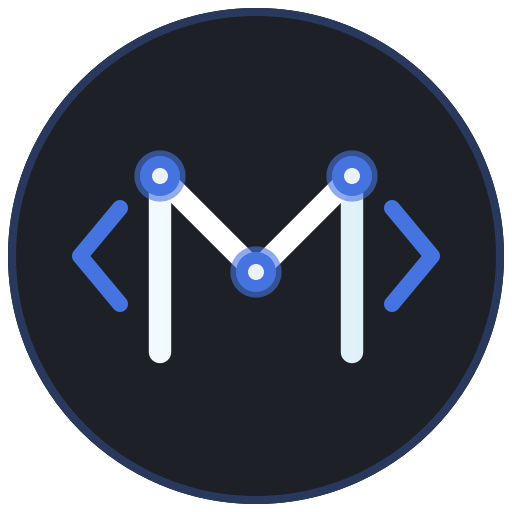
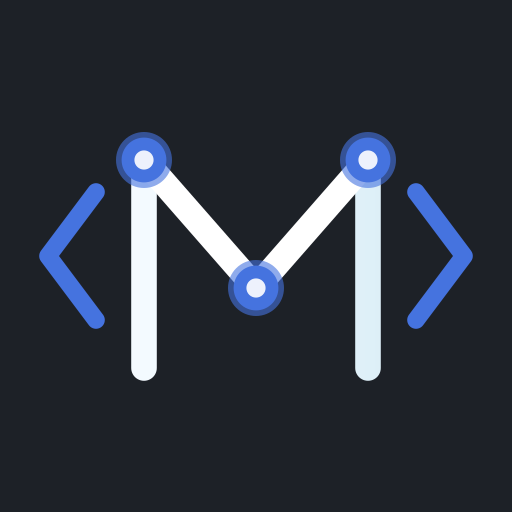
Refactor GmIcon and ThemeToggleIcon to prevent rendering in light theme and improve mobile detection logic

diff --git a/scripts/generate-meta-images.ts b/scripts/generate-meta-images.ts
@@ -2,7 +2,8 @@ const sharp = require('sharp');
 const path = require('path');
 const fs = require('fs/promises');
 
-const META_DIR = path.join(process.cwd(), 'public', 'meta');
+const ROOT_DIR = path.join(__dirname, '..');
+const META_DIR = path.join(ROOT_DIR, 'public', 'meta');
 
 // Ensure meta directory exists
 async function init() {
@@ -13,8 +14,15 @@ async function init() {
   }
 }
 
-async function generateFavicons() {  // Base SVG for the favicon using Megicode's branding
-  const svgBuffer = Buffer.from(`
+async function generateFavicons() {  // Base SVG for the favicon using existing PWA icon
+  const svgPath = path.join(META_DIR, 'megicode-logo1.svg');
+  let svgBuffer: Buffer;
+  try {
+    svgBuffer = await fs.readFile(svgPath);
+    console.log(`Using base SVG from: ${svgPath}`);
+  } catch (err) {
+    console.warn(`Could not read ${svgPath}. Falling back to embedded SVG.`, err);
+    svgBuffer = Buffer.from(`
     <svg width="512" height="512" viewBox="0 0 64 64" xmlns="http://www.w3.org/2000/svg">
       <defs>
         <linearGradient id="megicodeGradient" x1="0" y1="0" x2="64" y2="64" gradientUnits="userSpaceOnUse">
@@ -26,22 +34,16 @@ async function generateFavicons() {  // Base SVG for the favicon using Megicode'
         </filter>
       </defs>
 
-      <!-- Background Circle -->
       <circle cx="32" cy="32" r="30" fill="#ffffff" stroke="url(#megicodeGradient)" stroke-width="3.5" filter="url(#shadow)"/>
-
-      <!-- Stylized "M" for Megicode with cleared intersection -->
       <path d="M20 44V22L32 34L44 22V44" stroke="url(#megicodeGradient)" stroke-width="3.5" stroke-linecap="round" stroke-linejoin="round" fill="none"/>
-
-      <!-- Minimalist AI Circuit Nodes -->
       <circle cx="20" cy="22" r="1.5" fill="#4573df"/>
       <circle cx="44" cy="22" r="1.5" fill="#4573df"/>
       <circle cx="32" cy="34" r="1.5" fill="#4573df"/>
-
-      <!-- Code Angle Brackets -->
       <path d="M17 32 L13.5 28 L17 24" stroke="url(#megicodeGradient)" stroke-width="1.5" fill="none" stroke-linecap="round" stroke-linejoin="round"/>
       <path d="M47 32 L50.5 28 L47 24" stroke="url(#megicodeGradient)" stroke-width="1.5" fill="none" stroke-linecap="round" stroke-linejoin="round"/>
     </svg>
   `);
+  }
 
   // Generate different sizes
   const sizes = {
@@ -87,89 +89,39 @@ async function generateFavicons() {  // Base SVG for the favicon using Megicode'
     .toFile(path.join(META_DIR, 'favicon.ico'));
 }
 
-async function generateOpenGraphImage() {  // Create a more sophisticated OG image with Megicode branding
-  const ogSvgBuffer = Buffer.from(`
-    <svg width="1200" height="630" viewBox="0 0 1200 630" fill="none" xmlns="http://www.w3.org/2000/svg">
-      <defs>
-        <linearGradient id="megicodeGradient" x1="0" y1="0" x2="1200" y2="630" gradientUnits="userSpaceOnUse">
-          <stop offset="0%" stop-color="#4573df" />
-          <stop offset="100%" stop-color="#cfe8ef" />
-        </linearGradient>
-        <filter id="shadow" x="-10%" y="-10%" width="120%" height="120%">
-          <feDropShadow dx="0" dy="2" stdDeviation="4" flood-color="#4573df" flood-opacity="0.15"/>
-        </filter>
-      </defs>
+async function generateOpenGraphImage() {  // Compose OG/Twitter images from the official logo SVG
+  const svgPath = path.join(META_DIR, 'megicode-logo1.svg');
+  let svgBuffer: Buffer;
+  try {
+    svgBuffer = await fs.readFile(svgPath);
+    console.log(`Using logo SVG for OG/Twitter from: ${svgPath}`);
+  } catch (err) {
+    console.warn(`Could not read ${svgPath}. Using favicon SVG fallback for OG/Twitter.`, err);
+    // Fallback to the same embedded SVG from favicon generation
+    svgBuffer = Buffer.from('<svg width="512" height="512" viewBox="0 0 64 64" xmlns="http://www.w3.org/2000/svg"><defs><linearGradient id="megicodeGradient" x1="0" y1="0" x2="64" y2="64" gradientUnits="userSpaceOnUse"><stop offset="0%" stop-color="#4573df" /><stop offset="100%" stop-color="#cfe8ef" /></linearGradient></defs><circle cx="32" cy="32" r="30" fill="#ffffff" stroke="url(#megicodeGradient)" stroke-width="3.5"/><path d="M20 44V22L32 34L44 22V44" stroke="url(#megicodeGradient)" stroke-width="3.5" stroke-linecap="round" stroke-linejoin="round" fill="none"/></svg>');
+  }
 
-      <!-- Background with subtle gradient -->
-      <rect width="1200" height="630" fill="#ffffff"/>
-      <path d="M0,0 L1200,0 L1200,630 L0,630 Z" fill="url(#megicodeGradient)" fill-opacity="0.05"/>
+  // Helper to compose a centered logo on a white background
+  async function composeImage(outPath: string, width: number, height: number, logoMax: number) {
+    const logoPngBuf = await sharp(svgBuffer)
+      .resize({ width: logoMax, height: logoMax, fit: 'inside', withoutEnlargement: true })
+      .png()
+      .toBuffer();
 
-      <!-- Left side decoration - Circuit pattern -->
-      <g transform="translate(60, 60)" style="opacity: 0.1">
-        <path d="M0,100 Q50,100 50,150 T100,200" stroke="#4573df" stroke-width="2" fill="none"/>
-        <path d="M0,200 Q50,200 50,250 T100,300" stroke="#4573df" stroke-width="2" fill="none"/>
-        <circle cx="0" cy="100" r="4" fill="#4573df"/>
-        <circle cx="50" cy="150" r="4" fill="#4573df"/>
-        <circle cx="100" cy="200" r="4" fill="#4573df"/>
-      </g>
+    const meta = await sharp(logoPngBuf).metadata();
+    const lw = meta.width || Math.min(logoMax, width);
+    const lh = meta.height || Math.min(logoMax, height);
+    const left = Math.round((width - lw) / 2);
+    const top = Math.round((height - lh) / 2);
 
-      <!-- Logo Group -->
-      <g transform="translate(100, 120)">
-        <!-- Background Circle -->
-        <circle cx="64" cy="64" r="60" fill="#ffffff" stroke="url(#megicodeGradient)" stroke-width="7" filter="url(#shadow)"/>
-        
-        <!-- Stylized "M" -->
-        <path d="M40 88V44L64 68L88 44V88" stroke="url(#megicodeGradient)" stroke-width="7" stroke-linecap="round" stroke-linejoin="round" fill="none"/>
-        
-        <!-- Circuit Nodes -->
-        <circle cx="40" cy="44" r="3" fill="#4573df"/>
-        <circle cx="88" cy="44" r="3" fill="#4573df"/>
-        <circle cx="64" cy="68" r="3" fill="#4573df"/>
-        
-        <!-- Code Brackets -->
-        <path d="M34 64 L27 56 L34 48" stroke="url(#megicodeGradient)" stroke-width="3" fill="none" stroke-linecap="round" stroke-linejoin="round"/>
-        <path d="M94 64 L101 56 L94 48" stroke="url(#megicodeGradient)" stroke-width="3" fill="none" stroke-linecap="round" stroke-linejoin="round"/>
-      </g>
+    await sharp({ create: { width, height, channels: 4, background: '#FFFFFF' } })
+      .png()
+      .composite([{ input: logoPngBuf, left, top }])
+      .toFile(outPath);
+  }
 
-      <!-- Text Content -->
-      <g transform="translate(240, 150)">
-        <!-- Company name -->
-        <text font-family="Arial" font-size="72" font-weight="bold" fill="#4573df">
-          <tspan x="0" y="0">Megicode</tspan>
-        </text>
-        
-        <!-- Tagline -->
-        <text font-family="Arial" font-size="36" fill="#666">
-          <tspan x="0" y="60">Modern Software Solutions</tspan>
-        </text>        <!-- Services with custom bullets -->
-        <g transform="translate(0, 120)" font-family="Arial" font-size="28" fill="#4573df">
-          <g transform="translate(0, 0)">
-            <circle cx="0" cy="-6" r="4" fill="#4573df"/>
-            <text x="20" y="0">Web and Mobile Applications</text>
-          </g>
-          <g transform="translate(0, 45)">
-            <circle cx="0" cy="-6" r="4" fill="#4573df"/>
-            <text x="20" y="0">Desktop Software</text>
-          </g>
-          <g transform="translate(0, 90)">
-            <circle cx="0" cy="-6" r="4" fill="#4573df"/>
-            <text x="20" y="0">AI and Data Science Solutions</text>
-          </g>
-        </g>
-      </g>
-    </svg>
-  `);
-
-  await sharp(ogSvgBuffer)
-    .resize(1200, 630)
-    .png()
-    .toFile(path.join(META_DIR, 'og-image.png'));
-
-  // Create Twitter card (slightly different dimensions)
-  await sharp(ogSvgBuffer)
-    .resize(1200, 600)
-    .png()
-    .toFile(path.join(META_DIR, 'twitter-card.png'));
+  await composeImage(path.join(META_DIR, 'og-image.png'), 1200, 630, 540);
+  await composeImage(path.join(META_DIR, 'twitter-card.png'), 1200, 600, 520);
 }
 
 async function main() {

diff --git a/components/Icon/sbicon.tsx b/components/Icon/sbicon.tsx
@@ -55,7 +55,11 @@ const ThemeToggleIcon = () => {
   }, [hasAnimated]);
 
   // Only render on mobile screens
-  const isMobile = typeof window !== 'undefined' ? window.matchMedia('(max-width: 768px)').matches : false;
+  const [mounted, setMounted] = useState(false);
+  useEffect(() => setMounted(true), []);
+  const isMobile = mounted && typeof window !== 'undefined' ? window.matchMedia('(max-width: 768px)').matches : false;
+  // Per requirement: Do not render on light theme; show only on dark
+  if (mounted && theme !== 'dark') return null;
   if (!isMobile) return null;
 
   return (

diff --git a/components/Icon/gmicon.tsx b/components/Icon/gmicon.tsx
@@ -70,6 +70,8 @@ const GmIcon: React.FC<GmIconProps> = ({ showOnDesktop = false }) => {
   if (mounted && typeof window !== 'undefined') {
     isMobile = window.matchMedia('(max-width: 768px)').matches;
   }
+  // Per requirement: Do not render this icon on light theme; show only in dark mode
+  if (mounted && theme !== 'dark') return null;
   if (!showOnDesktop && !isMobile) return null;
 
   return (

diff --git a/app/layout.tsx b/app/layout.tsx
@@ -96,7 +96,7 @@ export default function RootLayout({ children }: { children: React.ReactNode }) 
     "@type": "Organization",
     "name": "Megicode",
     "url": "https://megicode.com",
-    "logo": "https://megicode.com/meta/android-chrome-512x512.png",
+  "logo": `https://megicode.com${PWA_ICON}`,
     "email": "contact@megicode.com",
     "address": {
       "@type": "PostalAddress",

diff --git a/LOGO_ASSETS_CHANGELOG.md b/LOGO_ASSETS_CHANGELOG.md
@@ -72,3 +72,16 @@ This avoids hard-coded strings and makes future changes one-line updates.
 On 2025-09-17 the PWA / app icon was switched to `public/meta/megicode-logo1.svg`.
 This file is now referenced in `public/meta/site.webmanifest` and by the theme-aware
 favicon links in `app/layout.tsx` so the PWA icon will be the `megicode-logo1.svg` file.
+
+## 2025-09-17 — PNGs regenerated from PWA SVG and JSON-LD aligned
+
+- Updated `scripts/generate-meta-images.ts` to rasterize from `public/meta/megicode-logo1.svg` (with safe fallback to embedded SVG) and adjusted path resolution to be repo-root-relative.
+- Regenerated the following assets via `npm run generate-meta`:
+	- `public/meta/favicon-16x16.png`
+	- `public/meta/favicon-32x32.png`
+	- `public/meta/favicon-48x48.png`
+	- `public/meta/favicon.ico`
+	- `public/meta/apple-touch-icon.png`
+	- `public/meta/android-chrome-192x192.png`
+	- `public/meta/android-chrome-512x512.png`
+- Switched Organization JSON-LD `logo` in `app/layout.tsx` to the SVG PWA icon for consistency: `https://megicode.com/meta/megicode-logo1.svg`.
